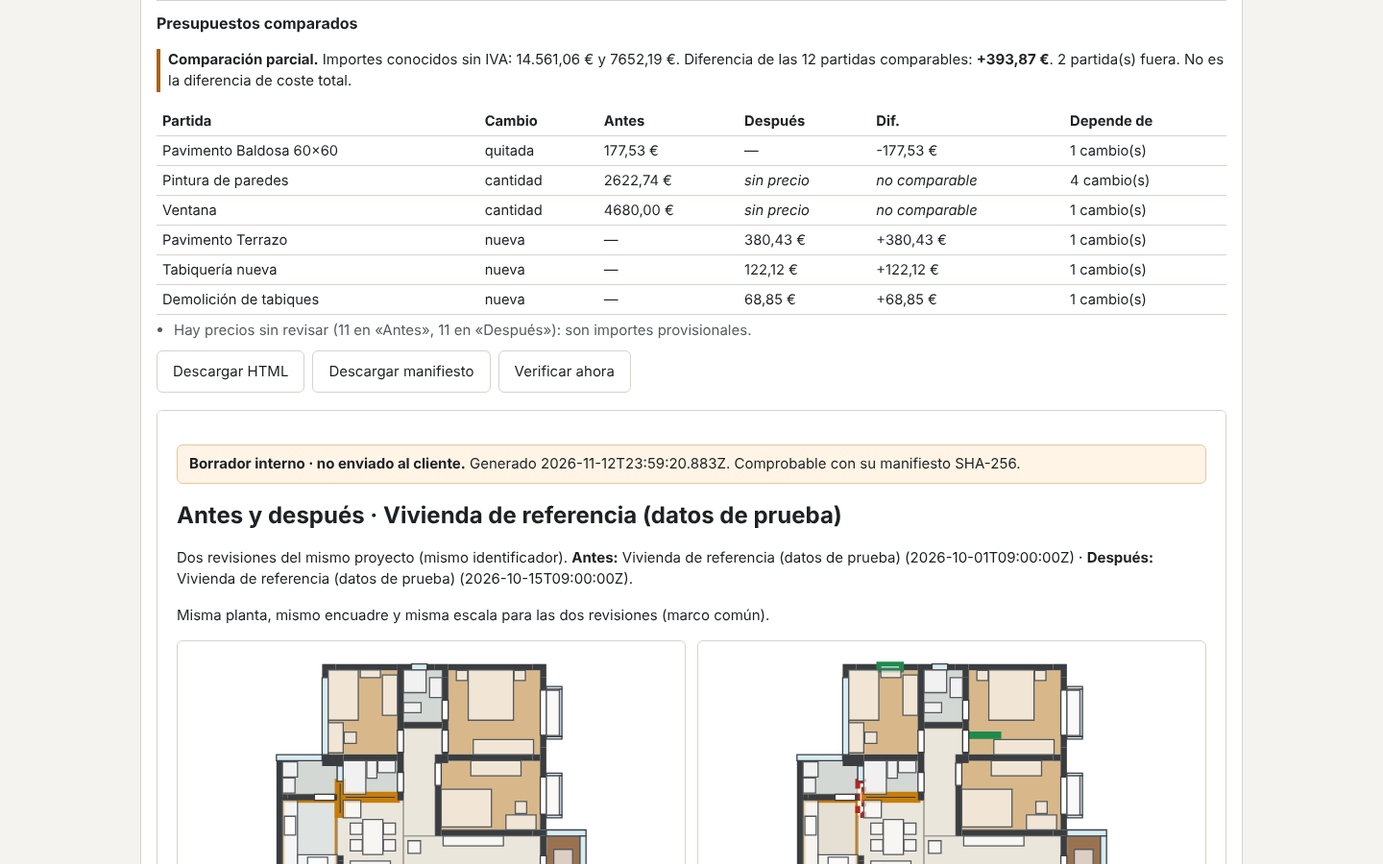
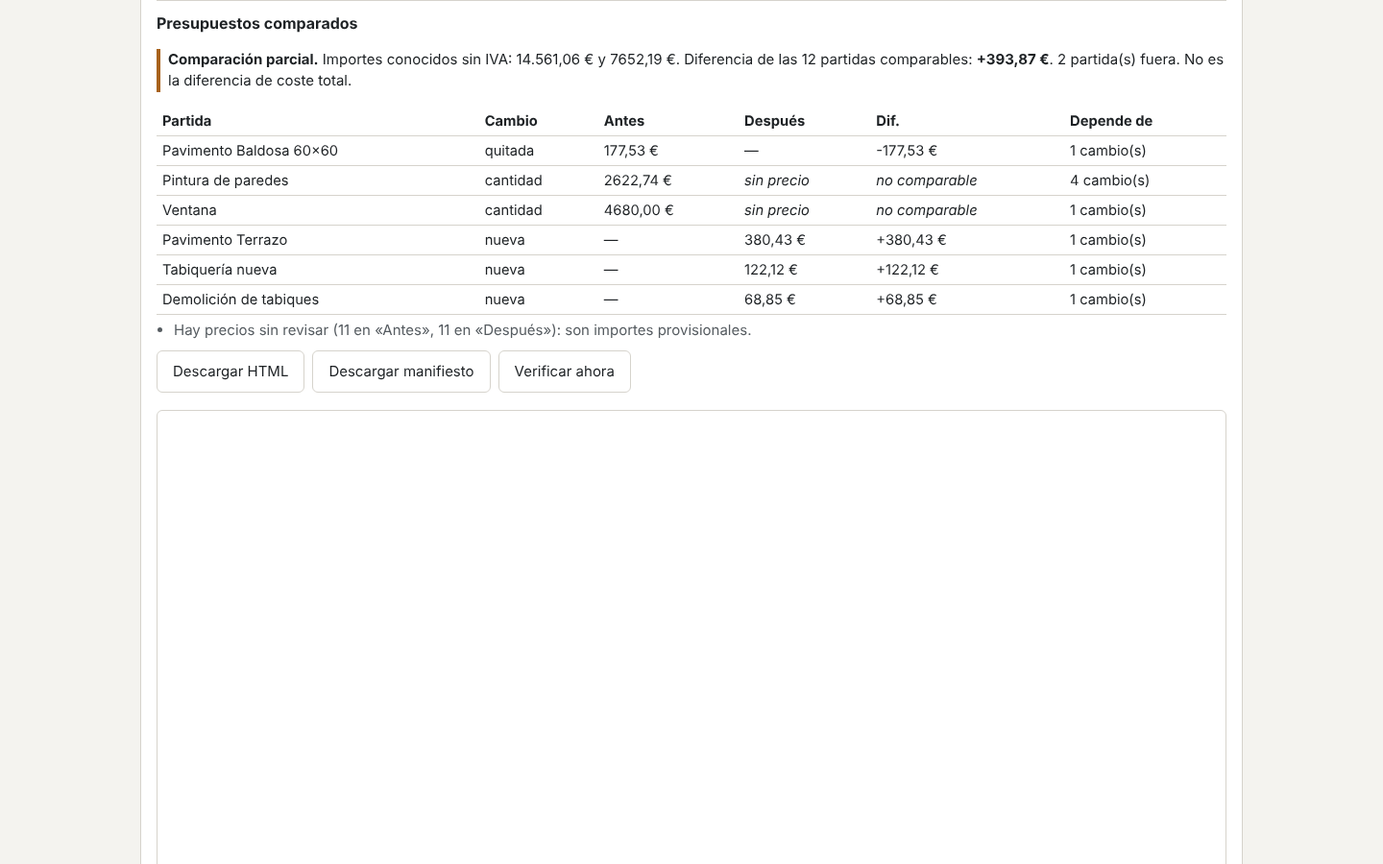
fix(ent04-fase2): auditorías del 13/11 — incoherent sin datos económicos por partida, dossier 1.0.0 auténtico, origen cambiado retira resultados
A (ChatGPT): compareBudgets en «incoherent» ya no calcula ni expone diferencias, importes ni partidas «exactas» en el
  modelo (status 'withheld', excludedReason 'incoherent', delta null; solo cantidades, que explican la incoherencia).
  Prueba que falla en 12ed08b.
B (ChatGPT): tests/fixtures/ux07-dossier-1.0.0/ es un dossier y manifiesto AUTÉNTICOS generados con la implementación de
  #209 (8a3cce8, VERSION 1.0.0) por tests/ux07/build-dossier-1.0.0-fixture.cjs, con origen.json; el verificador actual
  lo acepta intacto (también contra sus entradas), detecta alteraciones y rechaza un presupuesto de «antes» inexistente en 1.0.0.
C (propietario): al cambiar el origen, las entradas de biblioteca, los archivos o la declaración, el laboratorio retira la
  comparación, el dossier, los presupuestos y el estado anteriores y lo dice; un error al comparar no deja nada anterior;
  la comparación muestra su origen. tests/ux07-ent04-origin.browser.test.cjs (4) falla contra el laboratorio de 12ed08b.

Evidencias: captura 6 (origen cambiado) en escritorio y móvil. Acta §4 bis.

Claude-Session: https://claude.ai/code/session_01QDzoLfqQpuKy2DPCpzcETs

diff --git a/tests/fixtures/ux07-dossier-1.0.0/dossier.html b/tests/fixtures/ux07-dossier-1.0.0/dossier.html
@@ -1,0 +1,27 @@
+<!doctype html><html lang="es"><head><meta charset="utf-8"><meta name="viewport" content="width=device-width,initial-scale=1"><title>Antes y después · Vivienda de referencia (datos de prueba)</title>
+<style>body{margin:0;font:15px/1.5 system-ui,-apple-system,"Segoe UI",sans-serif;color:#1d2124;background:#fff}main{max-width:1100px;margin:0 auto;padding:20px}
+.draft{background:#fff4e5;border:1px solid #e5c79f;padding:8px 12px;border-radius:6px}h1{font-size:1.5rem;margin:.4em 0}h2{font-size:1.1rem;margin:1.4em 0 .4em}
+.plans{display:grid;grid-template-columns:1fr 1fr;gap:12px}.plans figure{margin:0;border:1px solid #d6d3cc;border-radius:6px;padding:8px}.plans svg{width:100%;height:auto;display:block}
+figcaption{font-weight:600}table{border-collapse:collapse;width:100%}th,td{border-bottom:1px solid #e4e1da;padding:4px 8px;text-align:left}.small{font-size:.9em;color:#4c5257}
+.sw{display:inline-block;width:.9em;height:.9em;border:1px solid #999;vertical-align:-.1em}.legend span{margin-right:1em}
+@media (max-width:640px){.plans{grid-template-columns:1fr}}@media print{.draft{border:1px solid #999}}</style></head><body><main>
+<p class="draft"><strong>Borrador interno · no enviado al cliente.</strong> Generado 2026-11-12T12:00:00.000Z. Comprobable con su manifiesto SHA-256.</p>
+<h1>Antes y después · Vivienda de referencia (datos de prueba)</h1>
+<p>Dos revisiones del mismo proyecto (mismo identificador). <strong>Antes:</strong> Vivienda de referencia (datos de prueba) (2026-10-01T09:00:00Z) · <strong>Después:</strong> Vivienda de referencia (datos de prueba) (2026-10-15T09:00:00Z).</p>
+<p>Misma planta, mismo encuadre y misma escala para las dos revisiones (marco común).</p>
+<div class="plans"><figure><svg xmlns="http://www.w3.org/2000/svg" viewBox="-3867 -840 19584 12240" role="img" aria-label="Planta antes" data-side="before"><style>.r{stroke:#9b978f;stroke-width:48.96}.w{fill:#3a3d40}.w.st-demolished{fill:#fff;stroke:#b3261e;stroke-width:73.44;stroke-dasharray:293.76 195.84}.w.st-new{fill:#1f6f5c}.d{fill:#fff;stroke:#3a3d40;stroke-width:48.96}.k-window{fill:#d8ecf3}.o{fill:#fff;fill-opacity:.65;stroke:#55595d;stroke-width:48.96}.add{stroke:#1f8a4c!important;stroke-width:195.84!important}.del{stroke:#b3261e!important;stroke-width:195.84!important;stroke-dasharray:391.68 244.8}.mod{stroke:#c77d0a!important;stroke-width:195.84!important}</style><path class="r" fill="#d8b88a" d="M6600 0 L10270 0 L10270 3370 L6600 3370 Z" data-id="rom_master"/><path class="r" fill="#d3d8d4" d="M4820 0 L6360 0 L6360 2080 L4820 2080 Z" data-id="rom_mbath"/><path class="r" fill="#d8b88a" d="M1820 0 L4580 0 L4580 3370 L1820 3370 Z" data-id="rom_kid"/><path class="r" fill="#d3d8d4" d="M2420 3610 L4580 3610 L4580 4950 L2420 4950 Z" data-id="rom_gbath"/><path class="r" fill="#d3d8d4" d="M0 3610 L2180 3610 L2180 4950 L0 4950 Z" data-id="rom_laundry"/><path class="r" fill="#d8b88a" d="M6323 3610 L10270 3610 L10270 6370 L6323 6370 Z" data-id="rom_child"/><path class="r mod" fill="#dfe3e1" d="M0 5190 L2180 5190 L2180 7960 L0 7960 Z" data-id="rom_kitchen"/><path class="r" fill="#ebe6dc" d="M2420 5190 L4820 5190 L4820 7960 L2420 7960 L2420 7400 L2180 7400 L2180 5796 L2420 5796 Z" data-id="rom_dining"/><path class="r" fill="#ebe6dc" d="M4820 2320 L6360 2320 L6360 3370 L6083 3370 L6083 6610 L4820 6610 Z" data-id="rom_hall"/><path class="r" fill="#ebe6dc" d="M4820 6610 L10270 6610 L10270 10560 L4820 10560 Z" data-id="rom_living"/><path class="r" fill="#9b7250" d="M10510 6610 L11850 6610 L11850 10560 L10510 10560 Z" data-id="rom_balcony"/><path class="r" fill="#f1eee8" d="M10270 800 L10510 800 L10510 760 L11030 760 L11030 2650 L10510 2650 L10510 2600 L10270 2600 Z" data-id="rom_bay1"/><path class="r" fill="#f1eee8" d="M10270 4260 L10510 4260 L10510 4210 L11030 4210 L11030 5785 L10510 5785 L10510 5740 L10270 5740 Z" data-id="rom_bay2"/><path class="w st-existing" d="M1580 0 L2120 0 L2120 -240 L1580 -240 Z" data-id="wal_ref-w0"/><path class="w st-existing" d="M1580 0 L1580 300 L1820 300 L1820 0 Z" data-id="wal_ref-w1"/><path class="w st-existing" d="M2120 0 L4580 0 L4580 -240 L2120 -240 Z" data-id="wal_ref-w2"/><path class="w st-existing" d="M4580 0 L5140 0 L5140 -240 L4580 -240 Z" data-id="wal_ref-w3"/><path class="w st-existing" d="M5760 0 L6050 0 L6050 -240 L5760 -240 Z" data-id="wal_ref-w4"/><path class="w st-existing" d="M6050 0 L6600 0 L6600 -240 L6050 -240 Z" data-id="wal_ref-w5"/><path class="w st-existing" d="M6360 0 L6360 300 L6600 300 L6600 0 Z" data-id="wal_ref-w6"/><path class="w st-existing" d="M6600 0 L9960 0 L9960 -240 L6600 -240 Z" data-id="wal_ref-w7"/><path class="w st-existing" d="M9960 0 L10510 0 L10510 -240 L9960 -240 Z" data-id="wal_ref-w8"/><path class="w st-existing" d="M10270 0 L10270 300 L10510 300 L10510 0 Z" data-id="wal_ref-w9"/><path class="w st-existing" d="M10270 300 L10270 800 L10510 800 L10510 300 Z" data-id="wal_ref-w10"/><path class="w st-existing" d="M10270 2600 L10270 3090 L10510 3090 L10510 2600 Z" data-id="wal_ref-w11"/><path class="w st-existing" d="M10270 3090 L10270 4260 L10510 4260 L10510 3090 Z" data-id="wal_ref-w12"/><path class="w st-existing" d="M10270 5740 L10270 6370 L10510 6370 L10510 5740 Z" data-id="wal_ref-w13"/><path class="w st-existing" d="M9960 6610 L10510 6610 L10510 6370 L9960 6370 Z" data-id="wal_ref-w14"/><path class="w st-existing" d="M10270 6610 L10270 7400 L10510 7400 L10510 6610 Z" data-id="wal_ref-w15"/><path class="w st-existing" d="M10270 9770 L10270 10560 L10510 10560 L10510 9770 Z" data-id="wal_ref-w16"/><path class="w st-existing" d="M9960 10800 L10510 10800 L10510 10560 L9960 10560 Z" data-id="wal_ref-w17"/><path class="w st-existing" d="M4580 10800 L9960 10800 L9960 10560 L4580 10560 Z" data-id="wal_ref-w18"/><path class="w st-existing" d="M10510 10800 L12090 10800 L12090 10560 L10510 10560 Z" data-id="wal_ref-w19"/><path class="w st-existing" d="M11850 9960 L11850 10560 L12090 10560 L12090 9960 Z" data-id="wal_ref-w20"/><path class="w st-existing" d="M4580 9200 L4580 10560 L4820 10560 L4820 9200 Z" data-id="wal_ref-w21"/><path class="w st-existing" d="M4580 7960 L4580 8310 L4820 8310 L4820 7960 Z" data-id="wal_ref-w22"/><path class="w st-existing" d="M3620 8200 L4580 8200 L4580 7960 L3620 7960 Z" data-id="wal_ref-w23"/><path class="w st-existing" d="M2180 8200 L3620 8200 L3620 7960 L2180 7960 Z" data-id="wal_ref-w24"/><path class="w st-existing" d="M2180 7590 L2180 7960 L2420 7960 L2420 7590 Z" data-id="wal_ref-w25"/><path class="w st-existing" d="M2180 7590 L2420 7590 L2420 7400 L2180 7400 Z" data-id="wal_ref-w26"/><path class="w st-existing" d="M-240 8200 L2180 8200 L2180 7960 L-240 7960 Z" data-id="wal_ref-w27"/><path class="w st-existing" d="M-240 3610 L-240 7960 L0 7960 L0 3610 Z" data-id="wal_ref-w28"/><path class="w st-existing" d="M0 4950 L0 5190 L200 5190 L200 4950 Z" data-id="wal_ref-w29"/><path class="w st-existing" d="M200 5190 L1275 5190 L1275 4950 L200 4950 Z" data-id="wal_ref-w30"/><path class="w st-existing" d="M1580 3826 L2420 3826 L2420 3371 L1580 3371 Z" data-id="wal_ref-w31"/><path class="w st-existing mod" d="M2180 4430 L2180 5796 L2420 5796 L2420 4430 Z" data-id="wal_ref-w32"/><path class="w st-existing" d="M2090 4950 L2090 5190 L2180 5190 L2180 4950 Z" data-id="wal_ref-w33"/><path class="w st-existing mod" d="M2420 5190 L4580 5190 L4580 4950 L2420 4950 Z" data-id="wal_ref-w34"/><path class="w st-existing" d="M4580 3280 L4580 4075 L4820 4075 L4820 3280 Z" data-id="wal_ref-w35"/><path class="w st-existing" d="M4580 4860 L4580 5190 L4820 5190 L4820 4860 Z" data-id="wal_ref-w36"/><path class="w st-existing" d="M2420 3610 L4580 3610 L4580 3370 L2420 3370 Z" data-id="wal_ref-w37"/><path class="w st-existing" d="M4580 0 L4580 2400 L4820 2400 L4820 0 Z" data-id="wal_ref-w38"/><path class="w st-existing" d="M4820 2320 L6360 2320 L6360 2080 L4820 2080 Z" data-id="wal_ref-w39"/><path class="w st-existing" d="M6360 300 L6360 1198 L6600 1198 L6600 300 Z" data-id="wal_ref-w40"/><path class="w st-existing" d="M6360 1983 L6360 2400 L6600 2400 L6600 1983 Z" data-id="wal_ref-w41"/><path class="w st-existing" d="M6083 3707 L6600 3707 L6600 3370 L6083 3370 Z" data-id="wal_ref-w42"/><path class="w st-existing" d="M6360 3370 L6600 3370 L6600 3280 L6360 3280 Z" data-id="wal_ref-w43"/><path class="w st-existing" d="M6600 3610 L9960 3610 L9960 3370 L6600 3370 Z" data-id="wal_ref-w44"/><path class="w st-existing" d="M9960 3610 L10270 3610 L10270 3370 L9960 3370 Z" data-id="wal_ref-w45"/><path class="w st-existing" d="M6083 4600 L6083 6610 L6323 6610 L6323 4600 Z" data-id="wal_ref-w46"/><path class="w st-existing" d="M6323 6610 L9960 6610 L9960 6370 L6323 6370 Z" data-id="wal_ref-w47"/><path class="d k-window" d="M5140 0 L5760 0 L5760 -240 L5140 -240 Z" data-id="opn_window-0"/><path class="d k-window" d="M1580 300 L1580 3370 L1820 3370 L1820 300 Z" data-id="opn_window-1"/><path class="d k-window" d="M-240 3610 L1580 3610 L1580 3370 L-240 3370 Z" data-id="opn_window-2"/><path class="d k-window" d="M2180 3825 L2180 4430 L2420 4430 L2420 3825 Z" data-id="opn_window-3"/><path class="d k-window" d="M10510 6610 L12090 6610 L12090 6370 L10510 6370 Z" data-id="opn_window-4"/><path class="d k-window" d="M11850 6610 L11850 9960 L12090 9960 L12090 6610 Z" data-id="opn_window-5"/><path class="d k-window" d="M10510 760 L11130 760 L11130 660 L10510 660 Z" data-id="opn_window-6"/><path class="d k-window" d="M11030 760 L11030 2650 L11130 2650 L11130 760 Z" data-id="opn_window-7"/><path class="d k-window" d="M10510 2750 L11130 2750 L11130 2650 L10510 2650 Z" data-id="opn_window-8"/><path class="d k-window" d="M10510 4210 L11130 4210 L11130 4110 L10510 4110 Z" data-id="opn_window-9"/><path class="d k-window" d="M11030 4210 L11030 5785 L11130 5785 L11130 4210 Z" data-id="opn_window-10"/><path class="d k-window" d="M10510 5885 L11130 5885 L11130 5785 L10510 5785 Z" data-id="opn_window-11"/><path class="d k-door" d="M4580 2400 L4580 3280 L4820 3280 L4820 2400 Z" data-id="opn_door-0"/><path class="d k-door" d="M6360 2400 L6360 3280 L6600 3280 L6600 2400 Z" data-id="opn_door-1"/><path class="d k-door" d="M6360 1198 L6360 1983 L6600 1983 L6600 1198 Z" data-id="opn_door-2"/><path class="d k-door" d="M4580 4075 L4580 4860 L4820 4860 L4820 4075 Z" data-id="opn_door-3"/><path class="d k-door" d="M6083 3707 L6083 4600 L6323 4600 L6323 3707 Z" data-id="opn_door-4"/><path class="d k-door" d="M4580 8310 L4580 9200 L4820 9200 L4820 8310 Z" data-id="opn_door-5"/><path class="d k-sliding-door" d="M10270 7400 L10270 9770 L10510 9770 L10510 7400 Z" data-id="opn_slide-0"/><path class="d k-sliding-door" d="M1275 5190 L2090 5190 L2090 4950 L1275 4950 Z" data-id="opn_slide-1"/><path class="d k-opening" d="M10270 800 L10270 2600 L10510 2600 L10510 800 Z" data-id="opn_bay-0"/><path class="d k-opening" d="M10270 4260 L10270 5740 L10510 5740 L10510 4260 Z" data-id="opn_bay-1"/><path class="o" d="M7400 0 L9200 0 L9200 2000 L7400 2000 Z" data-id="obj_template-001"/><path class="o" d="M6925 20 L7375 20 L7375 420 L6925 420 Z" data-id="obj_template-002"/><path class="o" d="M9225 20 L9675 20 L9675 420 L9225 420 Z" data-id="obj_template-003"/><path class="o" d="M10000 3370 L7600 3370 L7600 2770 L10000 2770 Z" data-id="obj_template-004"/><path class="o" d="M10510 805 L11030 805 L11030 2605 L10510 2605 Z" data-id="obj_template-005"/><path class="o" d="M4820 0 L5720 0 L5720 900 L4820 900 Z" data-id="obj_template-006"/><path class="o" d="M4820 1700 L4820 1300 L5520 1300 L5520 1700 Z" data-id="obj_template-007"/><path class="o" d="M6360 300 L6360 1100 L5860 1100 L5860 300 Z" data-id="obj_template-008"/><path class="o" d="M1820 0 L3020 0 L3020 2000 L1820 2000 Z" data-id="obj_template-009"/><path class="o" d="M1820 3300 L1820 2100 L2420 2100 L2420 3300 Z" data-id="obj_template-010"/><path class="o" d="M2940 2475 L2940 2925 L2460 2925 L2460 2475 Z" data-id="obj_template-011"/><path class="o" d="M4580 200 L4580 1800 L3980 1800 L3980 200 Z" data-id="obj_template-012"/><path class="o" d="M3100 0 L3900 0 L3900 300 L3100 300 Z" data-id="obj_template-013"/><path class="o" d="M2420 3610 L3320 3610 L3320 4950 L2420 4950 Z" data-id="obj_template-014"/><path class="o" d="M3360 3610 L3760 3610 L3760 4310 L3360 4310 Z" data-id="obj_template-015"/><path class="o" d="M3800 3610 L4500 3610 L4500 4090 L3800 4090 Z" data-id="obj_template-016"/><path class="o" d="M0 4260 L0 3660 L600 3660 L600 4260 Z" data-id="obj_template-017"/><path class="o" d="M0 4900 L0 4300 L500 4300 L500 4900 Z" data-id="obj_template-018"/><path class="o" d="M0 7960 L0 5190 L600 5190 L600 7960 Z" data-id="obj_template-019"/><path class="o" d="M2180 7960 L600 7960 L600 7360 L2180 7360 Z" data-id="obj_template-020"/><path class="o" d="M75 6575 L75 5825 L525 5825 L525 6575 Z" data-id="obj_template-021"/><path class="o" d="M1800 7905 L1000 7905 L1000 7455 L1800 7455 Z" data-id="obj_template-022"/><path class="o" d="M2420 5190 L3120 5190 L3120 5890 L2420 5890 Z" data-id="obj_template-023"/><path class="o" d="M4000 5950 L4000 7350 L3200 7350 L3200 5950 Z" data-id="obj_template-024"/><path class="o" d="M2700 6545 L2700 6095 L3180 6095 L3180 6545 Z" data-id="obj_template-025"/><path class="o" d="M2700 7205 L2700 6755 L3180 6755 L3180 7205 Z" data-id="obj_template-026"/><path class="o" d="M4500 6095 L4500 6545 L4020 6545 L4020 6095 Z" data-id="obj_template-027"/><path class="o" d="M4500 6755 L4500 7205 L4020 7205 L4020 6755 Z" data-id="obj_template-028"/><path class="o" d="M4300 7960 L2700 7960 L2700 7610 L4300 7610 Z" data-id="obj_template-029"/><path class="o" d="M6300 8050 L8900 8050 L8900 9850 L6300 9850 Z" data-id="obj_template-030"/><path class="o" d="M6400 6610 L8800 6610 L8800 7010 L6400 7010 Z" data-id="obj_template-031"/><path class="o mod" d="M9100 10560 L6100 10560 L6100 9660 L9100 9660 Z" data-id="obj_template-032"/><path class="o" d="M6950 8575 L8250 8575 L8250 9225 L6950 9225 Z" data-id="obj_template-033"/><path class="o" d="M9925 8475 L9925 9325 L9075 9325 L9075 8475 Z" data-id="obj_template-034"/><path class="o" d="M4820 10400 L4820 9400 L5170 9400 L5170 10400 Z" data-id="obj_template-035"/><path class="o del" d="M9700 10000 L10200 10000 L10200 10500 L9700 10500 Z" data-id="obj_template-036"/><path class="o" d="M5000 6800 L5500 6800 L5500 7300 L5000 7300 Z" data-id="obj_template-037"/><path class="o" d="M6323 6250 L6323 4750 L8323 4750 L8323 6250 Z" data-id="obj_template-038"/><path class="o" d="M7500 3610 L9500 3610 L9500 4210 L7500 4210 Z" data-id="obj_template-039"/><path class="o" d="M10100 6370 L8900 6370 L8900 5770 L10100 5770 Z" data-id="obj_template-040"/><path class="o" d="M9275 5240 L9725 5240 L9725 5720 L9275 5720 Z" data-id="obj_template-041"/><path class="o" d="M10510 4210 L11030 4210 L11030 5785 L10510 5785 Z" data-id="obj_template-042"/><path class="o" d="M10880 7900 L11480 7900 L11480 8500 L10880 8500 Z" data-id="obj_template-043"/><path class="o" d="M10805 7145 L11555 7145 L11555 7895 L10805 7895 Z" data-id="obj_template-044"/><path class="o" d="M11555 9255 L10805 9255 L10805 8505 L11555 8505 Z" data-id="obj_template-045"/><path class="o" d="M11300 10000 L11800 10000 L11800 10500 L11300 10500 Z" data-id="obj_template-046"/></svg><figcaption>Antes</figcaption></figure><figure><svg xmlns="http://www.w3.org/2000/svg" viewBox="-3867 -840 19584 12240" role="img" aria-label="Planta después" data-side="after"><style>.r{stroke:#9b978f;stroke-width:48.96}.w{fill:#3a3d40}.w.st-demolished{fill:#fff;stroke:#b3261e;stroke-width:73.44;stroke-dasharray:293.76 195.84}.w.st-new{fill:#1f6f5c}.d{fill:#fff;stroke:#3a3d40;stroke-width:48.96}.k-window{fill:#d8ecf3}.o{fill:#fff;fill-opacity:.65;stroke:#55595d;stroke-width:48.96}.add{stroke:#1f8a4c!important;stroke-width:195.84!important}.del{stroke:#b3261e!important;stroke-width:195.84!important;stroke-dasharray:391.68 244.8}.mod{stroke:#c77d0a!important;stroke-width:195.84!important}</style><path class="r" fill="#d8b88a" d="M6600 0 L10270 0 L10270 3370 L6600 3370 Z" data-id="rom_master"/><path class="r" fill="#d3d8d4" d="M4820 0 L6360 0 L6360 2080 L4820 2080 Z" data-id="rom_mbath"/><path class="r" fill="#d8b88a" d="M1820 0 L4580 0 L4580 3370 L1820 3370 Z" data-id="rom_kid"/><path class="r" fill="#d3d8d4" d="M2420 3610 L4580 3610 L4580 4950 L2420 4950 Z" data-id="rom_gbath"/><path class="r" fill="#d3d8d4" d="M0 3610 L2180 3610 L2180 4950 L0 4950 Z" data-id="rom_laundry"/><path class="r" fill="#d8b88a" d="M6323 3610 L10270 3610 L10270 6370 L6323 6370 Z" data-id="rom_child"/><path class="r mod" fill="#e6dfd3" d="M0 5190 L2180 5190 L2180 7960 L0 7960 Z" data-id="rom_kitchen"/><path class="r" fill="#ebe6dc" d="M2420 5190 L4820 5190 L4820 7960 L2420 7960 L2420 7400 L2180 7400 L2180 5796 L2420 5796 Z" data-id="rom_dining"/><path class="r" fill="#ebe6dc" d="M4820 2320 L6360 2320 L6360 3370 L6083 3370 L6083 6610 L4820 6610 Z" data-id="rom_hall"/><path class="r" fill="#ebe6dc" d="M4820 6610 L10270 6610 L10270 10560 L4820 10560 Z" data-id="rom_living"/><path class="r" fill="#9b7250" d="M10510 6610 L11850 6610 L11850 10560 L10510 10560 Z" data-id="rom_balcony"/><path class="r" fill="#f1eee8" d="M10270 800 L10510 800 L10510 760 L11030 760 L11030 2650 L10510 2650 L10510 2600 L10270 2600 Z" data-id="rom_bay1"/><path class="r" fill="#f1eee8" d="M10270 4260 L10510 4260 L10510 4210 L11030 4210 L11030 5785 L10510 5785 L10510 5740 L10270 5740 Z" data-id="rom_bay2"/><path class="w st-existing" d="M1580 0 L2120 0 L2120 -240 L1580 -240 Z" data-id="wal_ref-w0"/><path class="w st-existing" d="M1580 0 L1580 300 L1820 300 L1820 0 Z" data-id="wal_ref-w1"/><path class="w st-existing" d="M2120 0 L3020 0 L3020 -240 L2120 -240 Z" data-id="wal_ref-w2"/><path class="w st-existing" d="M3920 0 L4580 0 L4580 -240 L3920 -240 Z" data-id="wal_ref-w2"/><path class="w st-existing" d="M4580 0 L5140 0 L5140 -240 L4580 -240 Z" data-id="wal_ref-w3"/><path class="w st-existing" d="M5760 0 L6050 0 L6050 -240 L5760 -240 Z" data-id="wal_ref-w4"/><path class="w st-existing" d="M6050 0 L6600 0 L6600 -240 L6050 -240 Z" data-id="wal_ref-w5"/><path class="w st-existing" d="M6360 0 L6360 300 L6600 300 L6600 0 Z" data-id="wal_ref-w6"/><path class="w st-existing" d="M6600 0 L9960 0 L9960 -240 L6600 -240 Z" data-id="wal_ref-w7"/><path class="w st-existing" d="M9960 0 L10510 0 L10510 -240 L9960 -240 Z" data-id="wal_ref-w8"/><path class="w st-existing" d="M10270 0 L10270 300 L10510 300 L10510 0 Z" data-id="wal_ref-w9"/><path class="w st-existing" d="M10270 300 L10270 800 L10510 800 L10510 300 Z" data-id="wal_ref-w10"/><path class="w st-existing" d="M10270 2600 L10270 3090 L10510 3090 L10510 2600 Z" data-id="wal_ref-w11"/><path class="w st-existing" d="M10270 3090 L10270 4260 L10510 4260 L10510 3090 Z" data-id="wal_ref-w12"/><path class="w st-existing" d="M10270 5740 L10270 6370 L10510 6370 L10510 5740 Z" data-id="wal_ref-w13"/><path class="w st-existing" d="M9960 6610 L10510 6610 L10510 6370 L9960 6370 Z" data-id="wal_ref-w14"/><path class="w st-existing" d="M10270 6610 L10270 7400 L10510 7400 L10510 6610 Z" data-id="wal_ref-w15"/><path class="w st-existing" d="M10270 9770 L10270 10560 L10510 10560 L10510 9770 Z" data-id="wal_ref-w16"/><path class="w st-existing" d="M9960 10800 L10510 10800 L10510 10560 L9960 10560 Z" data-id="wal_ref-w17"/><path class="w st-existing" d="M4580 10800 L9960 10800 L9960 10560 L4580 10560 Z" data-id="wal_ref-w18"/><path class="w st-existing" d="M10510 10800 L12090 10800 L12090 10560 L10510 10560 Z" data-id="wal_ref-w19"/><path class="w st-existing" d="M11850 9960 L11850 10560 L12090 10560 L12090 9960 Z" data-id="wal_ref-w20"/><path class="w st-existing" d="M4580 9200 L4580 10560 L4820 10560 L4820 9200 Z" data-id="wal_ref-w21"/><path class="w st-existing" d="M4580 7960 L4580 8310 L4820 8310 L4820 7960 Z" data-id="wal_ref-w22"/><path class="w st-existing" d="M3620 8200 L4580 8200 L4580 7960 L3620 7960 Z" data-id="wal_ref-w23"/><path class="w st-existing" d="M2180 8200 L3620 8200 L3620 7960 L2180 7960 Z" data-id="wal_ref-w24"/><path class="w st-existing" d="M2180 7590 L2180 7960 L2420 7960 L2420 7590 Z" data-id="wal_ref-w25"/><path class="w st-existing" d="M2180 7590 L2420 7590 L2420 7400 L2180 7400 Z" data-id="wal_ref-w26"/><path class="w st-existing" d="M-240 8200 L2180 8200 L2180 7960 L-240 7960 Z" data-id="wal_ref-w27"/><path class="w st-existing" d="M-240 3610 L-240 7960 L0 7960 L0 3610 Z" data-id="wal_ref-w28"/><path class="w st-existing" d="M0 4950 L0 5190 L200 5190 L200 4950 Z" data-id="wal_ref-w29"/><path class="w st-existing" d="M200 5190 L1275 5190 L1275 4950 L200 4950 Z" data-id="wal_ref-w30"/><path class="w st-existing" d="M1580 3826 L2420 3826 L2420 3371 L1580 3371 Z" data-id="wal_ref-w31"/><path class="w st-demolished del" d="M2180 4430 L2180 5796 L2420 5796 L2420 4430 Z" data-id="wal_ref-w32"/><path class="w st-existing" d="M2090 4950 L2090 5190 L2180 5190 L2180 4950 Z" data-id="wal_ref-w33"/><path class="w st-existing mod" d="M2420 5190 L4580 5190 L4580 4950 L2420 4950 Z" data-id="wal_ref-w34"/><path class="w st-existing" d="M4580 3280 L4580 4075 L4820 4075 L4820 3280 Z" data-id="wal_ref-w35"/><path class="w st-existing" d="M4580 4860 L4580 5190 L4820 5190 L4820 4860 Z" data-id="wal_ref-w36"/><path class="w st-existing" d="M2420 3610 L4580 3610 L4580 3370 L2420 3370 Z" data-id="wal_ref-w37"/><path class="w st-existing" d="M4580 0 L4580 2400 L4820 2400 L4820 0 Z" data-id="wal_ref-w38"/><path class="w st-existing" d="M4820 2320 L6360 2320 L6360 2080 L4820 2080 Z" data-id="wal_ref-w39"/><path class="w st-existing" d="M6360 300 L6360 1198 L6600 1198 L6600 300 Z" data-id="wal_ref-w40"/><path class="w st-existing" d="M6360 1983 L6360 2400 L6600 2400 L6600 1983 Z" data-id="wal_ref-w41"/><path class="w st-existing" d="M6083 3707 L6600 3707 L6600 3370 L6083 3370 Z" data-id="wal_ref-w42"/><path class="w st-existing" d="M6360 3370 L6600 3370 L6600 3280 L6360 3280 Z" data-id="wal_ref-w43"/><path class="w st-existing" d="M6600 3610 L9960 3610 L9960 3370 L6600 3370 Z" data-id="wal_ref-w44"/><path class="w st-existing" d="M9960 3610 L10270 3610 L10270 3370 L9960 3370 Z" data-id="wal_ref-w45"/><path class="w st-existing" d="M6083 4600 L6083 6610 L6323 6610 L6323 4600 Z" data-id="wal_ref-w46"/><path class="w st-existing" d="M6323 6610 L9960 6610 L9960 6370 L6323 6370 Z" data-id="wal_ref-w47"/><path class="w st-new add" d="M6600 2650 L7800 2650 L7800 2550 L6600 2550 Z" data-id="wal_ux07-new"/><path class="d k-window" d="M5140 0 L5760 0 L5760 -240 L5140 -240 Z" data-id="opn_window-0"/><path class="d k-window" d="M1580 300 L1580 3370 L1820 3370 L1820 300 Z" data-id="opn_window-1"/><path class="d k-window" d="M-240 3610 L1580 3610 L1580 3370 L-240 3370 Z" data-id="opn_window-2"/><path class="d k-window" d="M2180 3825 L2180 4430 L2420 4430 L2420 3825 Z" data-id="opn_window-3"/><path class="d k-window" d="M10510 6610 L12090 6610 L12090 6370 L10510 6370 Z" data-id="opn_window-4"/><path class="d k-window" d="M11850 6610 L11850 9960 L12090 9960 L12090 6610 Z" data-id="opn_window-5"/><path class="d k-window" d="M10510 760 L11130 760 L11130 660 L10510 660 Z" data-id="opn_window-6"/><path class="d k-window" d="M11030 760 L11030 2650 L11130 2650 L11130 760 Z" data-id="opn_window-7"/><path class="d k-window" d="M10510 2750 L11130 2750 L11130 2650 L10510 2650 Z" data-id="opn_window-8"/><path class="d k-window" d="M10510 4210 L11130 4210 L11130 4110 L10510 4110 Z" data-id="opn_window-9"/><path class="d k-window" d="M11030 4210 L11030 5785 L11130 5785 L11130 4210 Z" data-id="opn_window-10"/><path class="d k-window" d="M10510 5885 L11130 5885 L11130 5785 L10510 5785 Z" data-id="opn_window-11"/><path class="d k-door" d="M4580 2400 L4580 3280 L4820 3280 L4820 2400 Z" data-id="opn_door-0"/><path class="d k-door" d="M6360 2400 L6360 3280 L6600 3280 L6600 2400 Z" data-id="opn_door-1"/><path class="d k-door" d="M6360 1198 L6360 1983 L6600 1983 L6600 1198 Z" data-id="opn_door-2"/><path class="d k-door" d="M4580 4075 L4580 4860 L4820 4860 L4820 4075 Z" data-id="opn_door-3"/><path class="d k-door" d="M6083 3707 L6083 4600 L6323 4600 L6323 3707 Z" data-id="opn_door-4"/><path class="d k-door" d="M4580 8310 L4580 9200 L4820 9200 L4820 8310 Z" data-id="opn_door-5"/><path class="d k-sliding-door" d="M10270 7400 L10270 9770 L10510 9770 L10510 7400 Z" data-id="opn_slide-0"/><path class="d k-sliding-door" d="M1275 5190 L2090 5190 L2090 4950 L1275 4950 Z" data-id="opn_slide-1"/><path class="d k-opening" d="M10270 800 L10270 2600 L10510 2600 L10510 800 Z" data-id="opn_bay-0"/><path class="d k-opening" d="M10270 4260 L10270 5740 L10510 5740 L10510 4260 Z" data-id="opn_bay-1"/><path class="d k-window add" d="M3020 0 L3920 0 L3920 -240 L3020 -240 Z" data-id="opn_ux07-window"/><path class="o" d="M7400 0 L9200 0 L9200 2000 L7400 2000 Z" data-id="obj_template-001"/><path class="o" d="M6925 20 L7375 20 L7375 420 L6925 420 Z" data-id="obj_template-002"/><path class="o" d="M9225 20 L9675 20 L9675 420 L9225 420 Z" data-id="obj_template-003"/><path class="o" d="M10000 3370 L7600 3370 L7600 2770 L10000 2770 Z" data-id="obj_template-004"/><path class="o" d="M10510 805 L11030 805 L11030 2605 L10510 2605 Z" data-id="obj_template-005"/><path class="o" d="M4820 0 L5720 0 L5720 900 L4820 900 Z" data-id="obj_template-006"/><path class="o" d="M4820 1700 L4820 1300 L5520 1300 L5520 1700 Z" data-id="obj_template-007"/><path class="o" d="M6360 300 L6360 1100 L5860 1100 L5860 300 Z" data-id="obj_template-008"/><path class="o" d="M1820 0 L3020 0 L3020 2000 L1820 2000 Z" data-id="obj_template-009"/><path class="o" d="M1820 3300 L1820 2100 L2420 2100 L2420 3300 Z" data-id="obj_template-010"/><path class="o" d="M2940 2475 L2940 2925 L2460 2925 L2460 2475 Z" data-id="obj_template-011"/><path class="o" d="M4580 200 L4580 1800 L3980 1800 L3980 200 Z" data-id="obj_template-012"/><path class="o" d="M3100 0 L3900 0 L3900 300 L3100 300 Z" data-id="obj_template-013"/><path class="o" d="M2420 3610 L3320 3610 L3320 4950 L2420 4950 Z" data-id="obj_template-014"/><path class="o" d="M3360 3610 L3760 3610 L3760 4310 L3360 4310 Z" data-id="obj_template-015"/><path class="o" d="M3800 3610 L4500 3610 L4500 4090 L3800 4090 Z" data-id="obj_template-016"/><path class="o" d="M0 4260 L0 3660 L600 3660 L600 4260 Z" data-id="obj_template-017"/><path class="o" d="M0 4900 L0 4300 L500 4300 L500 4900 Z" data-id="obj_template-018"/><path class="o" d="M0 7960 L0 5190 L600 5190 L600 7960 Z" data-id="obj_template-019"/><path class="o" d="M2180 7960 L600 7960 L600 7360 L2180 7360 Z" data-id="obj_template-020"/><path class="o" d="M75 6575 L75 5825 L525 5825 L525 6575 Z" data-id="obj_template-021"/><path class="o" d="M1800 7905 L1000 7905 L1000 7455 L1800 7455 Z" data-id="obj_template-022"/><path class="o" d="M2420 5190 L3120 5190 L3120 5890 L2420 5890 Z" data-id="obj_template-023"/><path class="o" d="M4000 5950 L4000 7350 L3200 7350 L3200 5950 Z" data-id="obj_template-024"/><path class="o" d="M2700 6545 L2700 6095 L3180 6095 L3180 6545 Z" data-id="obj_template-025"/><path class="o" d="M2700 7205 L2700 6755 L3180 6755 L3180 7205 Z" data-id="obj_template-026"/><path class="o" d="M4500 6095 L4500 6545 L4020 6545 L4020 6095 Z" data-id="obj_template-027"/><path class="o" d="M4500 6755 L4500 7205 L4020 7205 L4020 6755 Z" data-id="obj_template-028"/><path class="o" d="M4300 7960 L2700 7960 L2700 7610 L4300 7610 Z" data-id="obj_template-029"/><path class="o" d="M6300 8050 L8900 8050 L8900 9850 L6300 9850 Z" data-id="obj_template-030"/><path class="o" d="M6400 6610 L8800 6610 L8800 7010 L6400 7010 Z" data-id="obj_template-031"/><path class="o mod" d="M9100 10160 L6100 10160 L6100 9260 L9100 9260 Z" data-id="obj_template-032"/><path class="o" d="M6950 8575 L8250 8575 L8250 9225 L6950 9225 Z" data-id="obj_template-033"/><path class="o" d="M9925 8475 L9925 9325 L9075 9325 L9075 8475 Z" data-id="obj_template-034"/><path class="o" d="M4820 10400 L4820 9400 L5170 9400 L5170 10400 Z" data-id="obj_template-035"/><path class="o" d="M5000 6800 L5500 6800 L5500 7300 L5000 7300 Z" data-id="obj_template-037"/><path class="o" d="M6323 6250 L6323 4750 L8323 4750 L8323 6250 Z" data-id="obj_template-038"/><path class="o" d="M7500 3610 L9500 3610 L9500 4210 L7500 4210 Z" data-id="obj_template-039"/><path class="o" d="M10100 6370 L8900 6370 L8900 5770 L10100 5770 Z" data-id="obj_template-040"/><path class="o" d="M9275 5240 L9725 5240 L9725 5720 L9275 5720 Z" data-id="obj_template-041"/><path class="o" d="M10510 4210 L11030 4210 L11030 5785 L10510 5785 Z" data-id="obj_template-042"/><path class="o" d="M10880 7900 L11480 7900 L11480 8500 L10880 8500 Z" data-id="obj_template-043"/><path class="o" d="M10805 7145 L11555 7145 L11555 7895 L10805 7895 Z" data-id="obj_template-044"/><path class="o" d="M11555 9255 L10805 9255 L10805 8505 L11555 8505 Z" data-id="obj_template-045"/><path class="o" d="M11300 10000 L11800 10000 L11800 10500 L11300 10500 Z" data-id="obj_template-046"/></svg><figcaption>Después</figcaption></figure></div>
+<p class="legend small"><span>Verde: añadido</span><span>Rojo discontinuo: quitado o a demoler</span><span>Ámbar: cambiado</span><span>Relleno de estancia: color de su suelo declarado</span></p>
+<h2>Cambios reales (7): 2 añadidos, 1 quitados, 4 cambiados</h2>
+<h3>Muros</h3><ul><li>Muro wal_ref-w32: estado existente → a demoler</li><li>Muro wal_ref-w34: acabado cambiado</li><li>Muro wal_ux07-new: muro nuevo</li></ul><h3>Puertas y ventanas</h3><ul><li>Hueco ventana: añadido</li></ul><h3>Estancias</h3><ul><li>Estancia Cocina: acabado cambiado</li></ul><h3>Muebles</h3><ul><li>Objeto Sofá de tres plazas: movido 400 mm</li><li>Objeto Planta: quitado</li></ul>
+<p class="small">Todos salen de los datos de las dos revisiones del proyecto.</p>
+<h2>Materiales cambiados</h2><table><tr><th>Dónde</th><th>Antes</th><th>Después</th></tr><tr><td>Pared · wal_ref-w34</td><td><em>sin declarar</em></td><td>Pintura blanca mate <span class="sw" style="background:#f3f1ea"></span></td></tr><tr><td>Suelo · Cocina</td><td>Baldosa 60×60 <span class="sw" style="background:#dfe3e1"></span></td><td>Terrazo <span class="sw" style="background:#e6dfd3"></span></td></tr></table>
+<h2>Lo que es ilustrativo</h2><ul><li><strong>Color de los muros sin acabado declarado.</strong> El proyecto no indica acabado en 69 muro(s) de «Después» y 70 de «Antes»: se dibujan con un gris por defecto, no con un material.</li><li><strong>Colores de resaltado (verde, rojo, ámbar).</strong> Son anotaciones de la comparación, no materiales ni acabados.</li><li><strong>Muebles.</strong> Se dibuja su huella en planta (posición, giro y tamaño reales del proyecto); su aspecto no forma parte de la comparación.</li></ul>
+<h2>Cifras del proyecto</h2><table><tr><th></th><th>Antes</th><th>Después</th><th>Diferencia</th></tr><tr><th>Superficie útil</th><td>87.18 m²</td><td>87.18 m²</td><td>0 m²</td></tr><tr><th>Estancias</th><td>13</td><td>13</td><td>0</td></tr><tr><th>Muros</th><td>70</td><td>71</td><td>+1</td></tr><tr><th>Huecos</th><td>22</td><td>23</td><td>+1</td></tr><tr><th>Muebles</th><td>46</td><td>45</td><td>-1</td></tr></table>
+<section class="budget"><h2>Presupuesto completo</h2>
+<p>Presupuesto · 13 partidas · 13 precio(s) sin revisar.</p>
+<table><tr><th>Sin IVA</th><td>15.319,94 €</td></tr><tr><th>IVA</th><td>3217,20 €</td></tr><tr><th>Total</th><td>18.537,14 €</td></tr></table>
+<p class="small">Origen de los precios: Precio de prueba ficticio (laboratorio).</p>
+<p class="small">RUBIK no registra sobre qué revisión se hizo un presupuesto: se ha comprobado que sus cantidades coinciden con las de «después». Resultado: <strong>coinciden</strong>.</p>
+</section>
+<h2>Límites</h2><ul class="small"><li>Comparación por identificador: un elemento redibujado con otro identificador aparece como quitado y añadido.</li><li>Escala no confirmada en alguna revisión: las medidas son orientativas.</li></ul>
+</main></body></html>

diff --git a/labs/ux07-ent04/lab.js b/labs/ux07-ent04/lab.js
@@ -21,8 +21,22 @@ function fillLibrary(){
   const opts=list.length?list.map(e=>`<option value="${esc(e.id)}">${esc(e.name)}${e.variantOf?' (variante)':''}${e.building?' · planta activa':''}</option>`).join(''):'<option value="">No hay proyectos guardados en este navegador</option>';
   $('libBefore').innerHTML=opts;$('libAfter').innerHTML=opts;if(list.length>1)$('libAfter').selectedIndex=1;
 }
+/* Auditoría del propietario (#212, 13/11/2026): al cambiar el origen o lo elegido en él, la comparación y el dossier
+   anteriores se RETIRAN (no se quedan a la vista atribuidos al origen nuevo). Solo «Comparar» con el origen nuevo los vuelve a
+   crear; si ese origen no es válido, el error lo dice y no queda ningún resultado anterior. */
+const SRC_ES={fixture:'proyecto de prueba (sintético)',library:'biblioteca de este navegador',files:'dos archivos JSON'};
+function invalidate(why){
+  const had=!!state.comparison;
+  Object.assign(state,{before:null,after:null,relation:null,comparison:null,dossier:null,budgets:{},budgetsBefore:{}});
+  $('cmpCard').hidden=true;$('dosCard').hidden=true;$('dosOut').hidden=true;$('bcOut').hidden=true;
+  for(const id of ['layerBefore','layerAfter','sideBefore','sideAfter','changes','materials','illustrative','metrics','limits','relation','perspective','bcSummary','bcTable','bcNotes','verifyOut','dosStatus','dosError'])$(id).innerHTML='';
+  $('preview').removeAttribute('srcdoc');
+  $('srcStatus').textContent=had?`${why} La comparación y el dossier anteriores se han retirado: pulsa «Comparar» para ver los de ${SRC_ES[state.src]}.`:'';
+}
 for(const r of document.querySelectorAll('input[name=src]'))r.addEventListener('change',()=>{state.src=r.value;
-  $('pickLibrary').hidden=r.value!=='library';$('pickFiles').hidden=r.value!=='files';if(r.value==='library')fillLibrary();$('srcError').textContent='';updateDeclare();});
+  $('pickLibrary').hidden=r.value!=='library';$('pickFiles').hidden=r.value!=='files';if(r.value==='library')fillLibrary();$('srcError').textContent='';updateDeclare();
+  invalidate(`Origen cambiado a ${SRC_ES[r.value]}.`);});
+for(const id of ['libBefore','libAfter','fileBefore','fileAfter','declare'])$(id).addEventListener('change',()=>invalidate('Has cambiado lo elegido en el origen.'));
 async function readJson(input){const f=input.files[0];if(!f)throw Error('Elige los dos archivos.');const p=JSON.parse(await f.text());Core.validate(p);return p;}
 async function resolvePair(){
   if(state.src==='fixture')return {before:F.before(),after:F.after(),relation:'same-project'};
@@ -40,11 +54,12 @@ async function doCompare(){
   try{
     const p=await resolvePair();const relation=p.relation||(p.before.id===p.after.id?'same-project':$('declare').checked?'declared':null);
     const c=R.compare(p.before,p.after,{relation,beforeLabel:$('labelBefore').value.trim()||'Antes',afterLabel:$('labelAfter').value.trim()||'Después'});
-    Object.assign(state,{before:p.before,after:p.after,relation:c.relation,comparison:c,dossier:null});render();fillBudgets();
-  }catch(e){$('srcError').textContent=e.code==='relation-required'?e.message+' Marca la casilla si es así.':e.message;$('cmpCard').hidden=$('dosCard').hidden=true;}
+    Object.assign(state,{before:p.before,after:p.after,relation:c.relation,comparison:c,dossier:null,source:state.src});$('srcStatus').textContent='';render();fillBudgets();
+  }catch(e){invalidate('');$('srcStatus').textContent='';$('srcError').textContent=e.code==='relation-required'?e.message+' Marca la casilla si es así.':e.message;}
 }
 function render(){
   const c=state.comparison;$('cmpCard').hidden=false;$('dosCard').hidden=false;
+  $('cmpSource').textContent=`Origen: ${SRC_ES[state.src]}`;
   $('relation').textContent={'same-project':'Dos revisiones del mismo proyecto.','library-variant':'Original y variante enlazadas en la biblioteca.','declared':'Proyectos distintos declarados por ti como revisiones de la misma obra.'}[c.relation]+` «${c.before.label}»: ${c.before.name} · «${c.after.label}»: ${c.after.name}`;
   const sb=R.planSvg(c,'before',state.before,{title:`Planta «${c.before.label}»`}),sa=R.planSvg(c,'after',state.after,{title:`Planta «${c.after.label}»`});
   $('layerBefore').innerHTML=sb;$('layerAfter').innerHTML=sa;$('sideBefore').innerHTML=sb;$('sideAfter').innerHTML=sa;

diff --git a/js/revision-budget-core.js b/js/revision-budget-core.js
@@ -93,18 +93,22 @@
     const lb=new Map((B?.report.lines||[]).map(l=>[l.id,l])),la=new Map((A?.report.lines||[]).map(l=>[l.id,l]));
     const ids=[...new Set([...lb.keys(),...la.keys()])];
     const deps=comparison.changes.map(c=>({change:c,items:dependsOn(c,beforeProject,afterProject)}));
+    // Incoherente: ningún dato económico por partida (ni diferencia, ni importes, ni «exacta»): solo las cantidades, que
+    // son las que explican por qué el presupuesto no corresponde a su revisión (auditoría #212).
+    const incoherent=status==='incoherent';
+    const quantityOnly=x=>x&&{quantity:x.quantity};
     const lines=ids.map(id=>{
-      const b=side(lb.get(id)),a=side(la.get(id)),src=la.get(id)||lb.get(id);
+      const b0=side(lb.get(id)),a0=side(la.get(id)),src=la.get(id)||lb.get(id),b=incoherent?quantityOnly(b0):b0,a=incoherent?quantityOnly(a0):a0;
       const qChanged=!!(b&&a)&&(b.quantity.unit!==a.quantity.unit||Math.abs(b.quantity.value-a.quantity.value)>EPS);
       // Cambio de precio solo entre dos precios conocidos; una partida sin precio es «parcial», no un cambio de precio.
-      const pChanged=!!(b&&a)&&b.unitPrice!==null&&a.unitPrice!==null&&b.unitPrice!==a.unitPrice;
+      const pChanged=!incoherent&&!!(b&&a)&&b.unitPrice!==null&&a.unitPrice!==null&&b.unitPrice!==a.unitPrice;
       const change=!b?'added':!a?'removed':qChanged&&pChanged?'quantity-and-price':qChanged?'quantity':pChanged?'price':'same';
       // Comparable (diferencia exacta) solo con importe conocido en los lados que existen.
-      const comparable=(!b||b.priced)&&(!a||a.priced)&&!!(B&&A);
-      const reason=!B||!A?'budget-missing':b&&!b.priced?(b.quantity.complete?'unpriced-before':'quantity-incomplete-before'):a&&!a.priced?(a.quantity.complete?'unpriced-after':'quantity-incomplete-after'):null;
+      const comparable=!incoherent&&(!b||b.priced)&&(!a||a.priced)&&!!(B&&A);
+      const reason=incoherent?'incoherent':!B||!A?'budget-missing':b&&!b.priced?(b.quantity.complete?'unpriced-before':'quantity-incomplete-before'):a&&!a.priced?(a.quantity.complete?'unpriced-after':'quantity-incomplete-after'):null;
       const explainedBy=deps.filter(d=>d.items.includes(id)).map(d=>d.change.entity+':'+d.change.entityId);
       return {itemId:id,description:src.description,chapterId:src.chapterId,change,before:b,after:a,
-        delta:comparable?{net:r2((a?.net||0)-(b?.net||0)),gross:r2((a?.gross||0)-(b?.gross||0))}:null,status:comparable?'exact':'partial',excludedReason:reason,
+        delta:comparable?{net:r2((a?.net||0)-(b?.net||0)),gross:r2((a?.gross||0)-(b?.gross||0))}:null,status:incoherent?'withheld':comparable?'exact':'partial',excludedReason:reason,
         explainedBy,unexplained:(change==='added'||change==='removed'||qChanged)&&!explainedBy.length};
     });
     const exact=lines.filter(l=>l.status==='exact'),excluded=lines.filter(l=>l.status!=='exact');

diff --git a/labs/ux07-ent04/index.html b/labs/ux07-ent04/index.html
@@ -36,10 +36,12 @@
     <label class="declare" id="declareRow" hidden><input type="checkbox" id="declare"> Declaro que estos dos proyectos son revisiones de la misma obra</label>
     <div class="row"><button class="btn primary" id="compareBtn" type="button">Comparar</button></div>
     <p id="srcError" class="error" role="alert"></p>
+    <p id="srcStatus" class="muted" role="status" aria-live="polite"></p>
   </section>
 
   <section class="card" aria-labelledby="cmpTitle" id="cmpCard" hidden>
     <h2 id="cmpTitle">2 · Comparación</h2>
+    <p id="cmpSource" class="badge-src"></p>
     <p id="relation" class="muted"></p>
     <div class="row" role="group" aria-label="Modo de comparación">
       <button class="btn" type="button" data-mode="curtain" aria-pressed="true">Cortina</button>

diff --git a/labs/ux07-ent04/lab.css b/labs/ux07-ent04/lab.css
@@ -40,3 +40,4 @@ details{margin-top:12px}summary{cursor:pointer;min-height:44px;display:flex;alig
 /* En pantallas estrechas cada partida es una ficha con sus rótulos: ninguna columna (la diferencia) queda fuera de la vista. */
 @media (max-width:720px){.tablewrap table{min-width:0}.bc thead{display:none}.bc tbody tr{display:block;border-bottom:1px solid var(--line);padding:6px 0}
 .bc tbody td{display:flex;justify-content:space-between;gap:12px;border:0;padding:2px 0;text-align:right}.bc tbody td::before{content:attr(data-label);font-weight:600;color:var(--muted);text-align:left}}
+.badge-src{display:inline-block;margin:0 0 6px;padding:2px 8px;border:1px solid var(--line);border-radius:999px;font-size:.85rem}

diff --git a/docs/qa/ux07-ent04-fase2-presupuestos-2026-11-12/README.md b/docs/qa/ux07-ent04-fase2-presupuestos-2026-11-12/README.md
@@ -96,6 +96,18 @@ La fase 1 (#209) adjuntaba **un** presupuesto, el de «después», y avisaba si 
   - se comprueba con `elementFromPoint` que el botón y los selectores reciben el toque, sin depender de las fuentes.
 - **Control negativo:** sin la corrección, las dos pruebas fallan; la nueva enumera 6 controles fuera de la pantalla.
 
+## 4 bis. Correcciones de las auditorías del 13/11/2026 (ChatGPT y propietario)
+
+| Hallazgo | Corrección | Prueba (falla sin la corrección) |
+|---|---|---|
+| **A** · `compareBudgets` en `incoherent` devolvía diferencias y partidas «exactas» en el modelo, aunque la interfaz no las mostrara | En `incoherent`, cada partida queda `status:'withheld'`, `excludedReason:'incoherent'`, `delta:null` y **sin importes**: solo las cantidades, que explican la incoherencia. `counts.exact = 0`. | `ux07-ent04-budget-coherence` n.º 4: falla en `12ed08b` («ninguna diferencia por partida») |
+| **B** · La prueba «1.0.0» reetiquetaba un dossier 1.1.0 | Artefacto **auténtico** en `tests/fixtures/ux07-dossier-1.0.0/`, generado con la implementación de #209 (`8a3cce8`, `VERSION 1.0.0`) por `tests/ux07/build-dossier-1.0.0-fixture.cjs`, con `origen.json`. No debe regenerarse con el código actual. | `ux07-ent04-budget-coherence` n.º 12: el verificador actual acepta el par intacto, también contra sus entradas; detecta alteraciones; rechaza un presupuesto de «antes» que 1.0.0 no tenía |
+| **C** · Al cambiar el origen, la comparación sintética anterior seguía a la vista junto al origen nuevo (captura del propietario) | Al cambiar el origen, las entradas de biblioteca, los archivos o la declaración, se **retiran** la comparación, el dossier, los presupuestos y el estado, y se avisa en `#srcStatus`. Un error al comparar tampoco deja nada anterior. La comparación muestra su **origen** («Origen: …»). | `ux07-ent04-origin.browser` (4: escritorio, móvil, biblioteca y archivos). El escenario de escritorio falla contra el laboratorio de `12ed08b` |
+
+La discrepancia de archivos descargados del comentario anterior **no era un defecto**: el propietario había adjuntado por error la primera descarga, y el par correcto se verificó byte a byte. No se trata como bug.
+
+Comparaciones **parcial** e **incoherente** y la **presentación móvil** siguen cubiertas por `ux07-ent04-budget.browser`.
+
 ## 5. Evidencias
 
 En `evidencias/`, con `manifest.json` y SHA-256. Escritorio 1440×900 y móvil 390×844:
@@ -104,7 +116,8 @@ En `evidencias/`, con `manifest.json` y SHA-256. Escritorio 1440×900 y móvil 3
 2. comparación parcial;
 3. comparación no válida;
 4. dossier 1.1.0 verificado con los dos presupuestos;
-5. sección de presupuestos del dossier descargado, abierto solo.
+5. sección de presupuestos del dossier descargado, abierto solo;
+6. origen cambiado: la comparación y el dossier anteriores, retirados.
 
 Navegador sin GPU ni dispositivo físico. **Las pruebas verdes no son un GO visual.**
 
